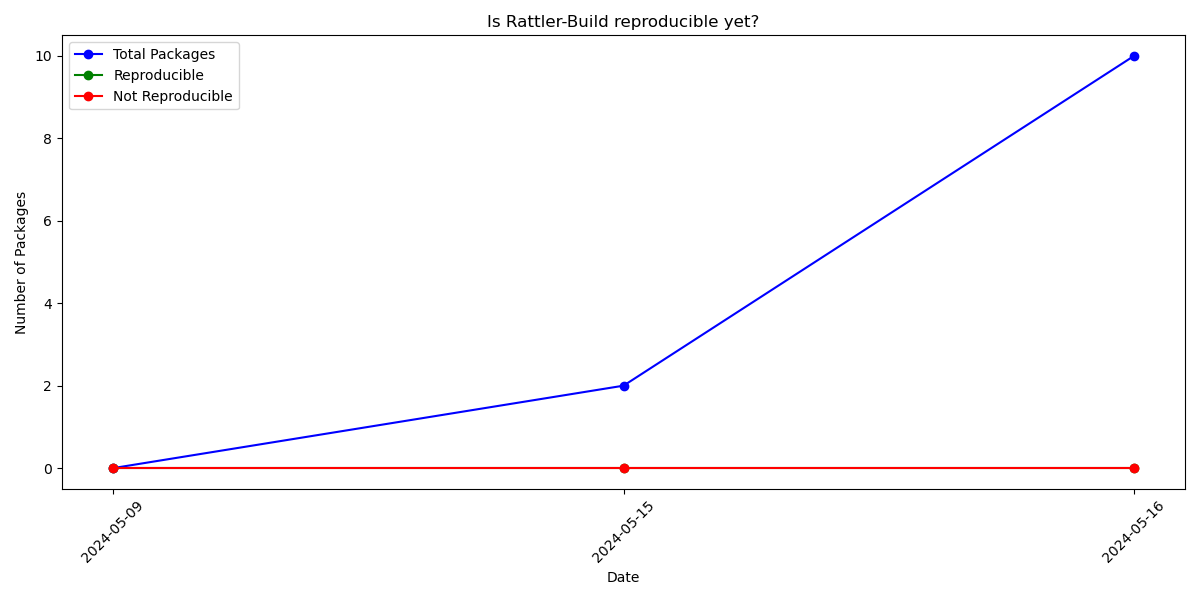
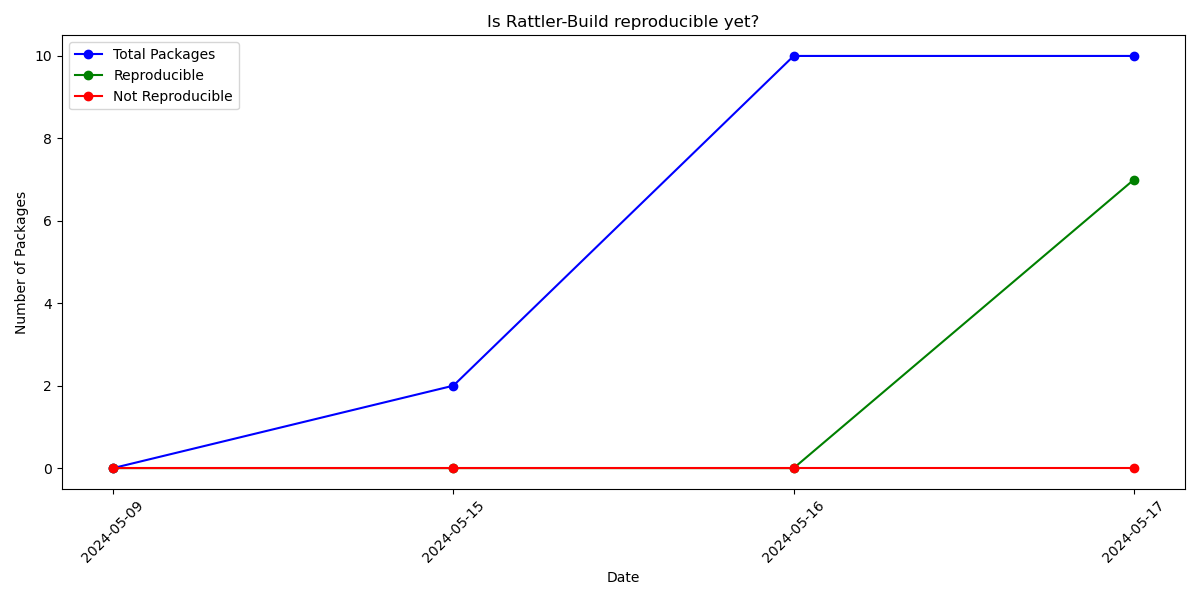
Update file via GitHub Action

diff --git a/README.md b/README.md
@@ -13,15 +13,18 @@
 ![Reproducibility Chart](data/chart.png)
 
 
+Built with rattler-build https://github.com/nichmor/rattler-build.git at commit fix/conda-timestamp-affect-reproducibility
+
+
 | Recipe Name | Is Reproducible |
 | --- | --- |
-| /tmp/tmp2hfzvl3t/cloned/polarify-feedstock/recipe/recipe.yaml | No |
-| /tmp/tmp2hfzvl3t/cloned/rattler-build/examples/xtensor/recipe.yaml | No |
-| /tmp/tmp2hfzvl3t/cloned/rattler-build/examples/ros-humble-turtlebot4-msgs/recipe.yaml | No |
-| /tmp/tmp2hfzvl3t/cloned/rattler-build/examples/rich/recipe.yaml | No |
-| /tmp/tmp2hfzvl3t/cloned/rattler-build/examples/mamba/recipe.yaml | No |
-| /tmp/tmp2hfzvl3t/cloned/rattler-build/examples/linking/recipe.yaml | No |
-| /tmp/tmp2hfzvl3t/cloned/rattler-build/examples/curl/recipe.yaml | No |
-| /tmp/tmp2hfzvl3t/cloned/rattler-build/examples/cmpcdt/recipe.yaml | No |
-| /tmp/tmp2hfzvl3t/cloned/rattler-build/examples/cargo-edit/recipe.yaml | No |
-| recipes/recipe.yaml | No |
+| /tmp/tmpq9ds1cur/cloned/polarify-feedstock/recipe/recipe.yaml | Yes |
+| /tmp/tmpq9ds1cur/cloned/rattler-build/examples/xtensor/recipe.yaml | Yes |
+| /tmp/tmpq9ds1cur/cloned/rattler-build/examples/ros-humble-turtlebot4-msgs/recipe.yaml | No |
+| /tmp/tmpq9ds1cur/cloned/rattler-build/examples/rich/recipe.yaml | Yes |
+| /tmp/tmpq9ds1cur/cloned/rattler-build/examples/mamba/recipe.yaml | No |
+| /tmp/tmpq9ds1cur/cloned/rattler-build/examples/linking/recipe.yaml | Yes |
+| /tmp/tmpq9ds1cur/cloned/rattler-build/examples/curl/recipe.yaml | Yes |
+| /tmp/tmpq9ds1cur/cloned/rattler-build/examples/cmpcdt/recipe.yaml | Yes |
+| /tmp/tmpq9ds1cur/cloned/rattler-build/examples/cargo-edit/recipe.yaml | No |
+| recipes/boltons/recipe.yaml | Yes |
